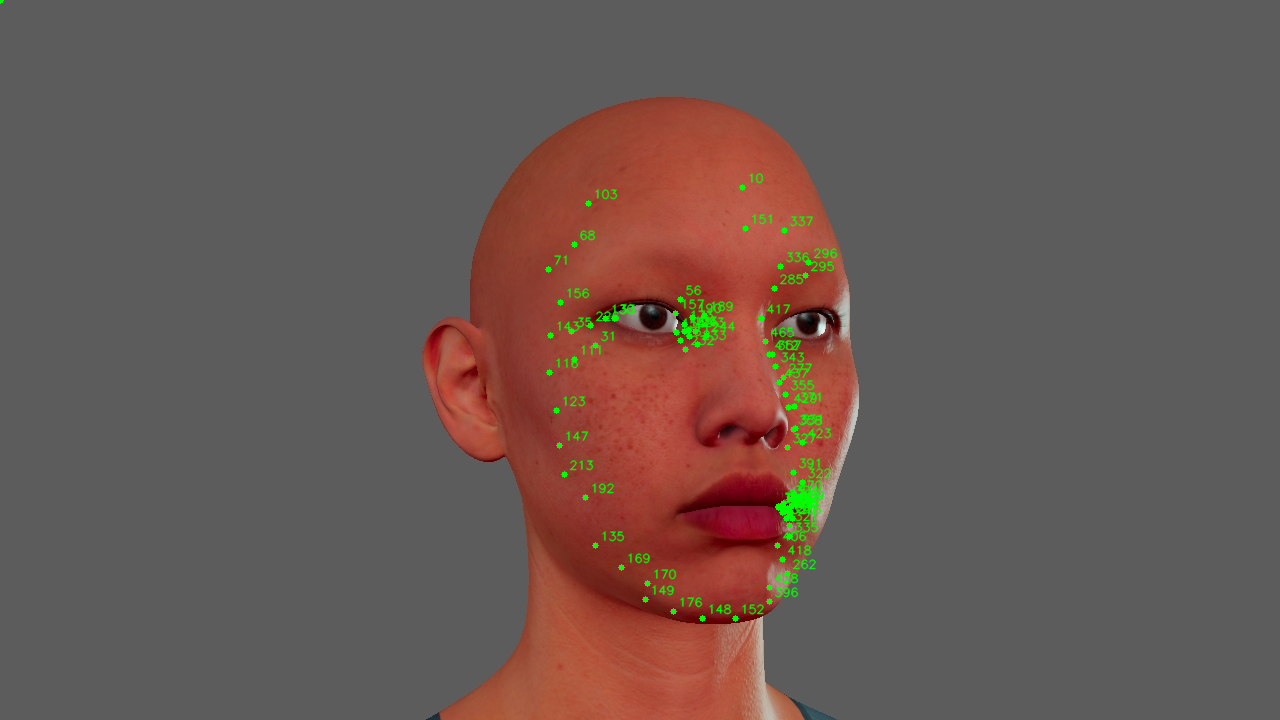
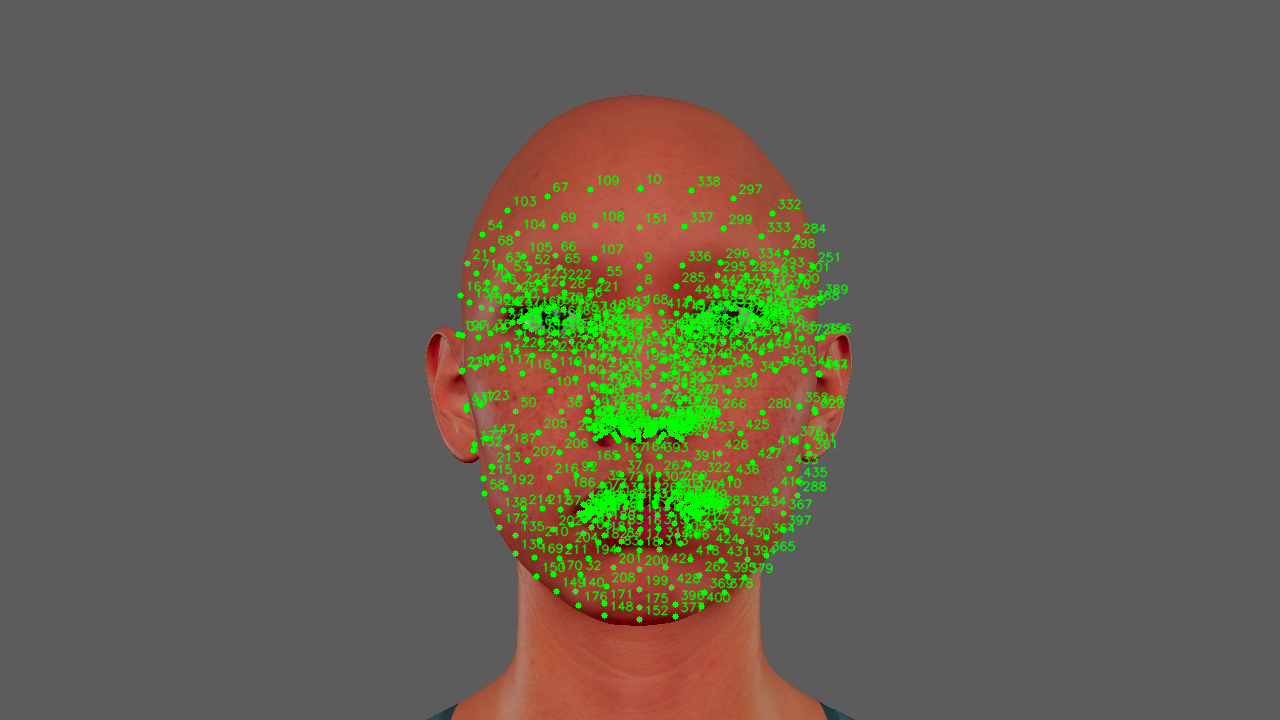
ray cast is working

Changed region(s): [[0.3125, 0.1222, 0.6875, 1.0], [0.5312, 0.1222, 0.5625, 0.1528]]

diff --git a/model/pixel_raycaster.py b/model/pixel_raycaster.py
@@ -1,0 +1,165 @@
+import maya.api.OpenMaya as om
+import maya.cmds as cmds
+from pathlib import Path
+import math
+
+
+class PixelRaycaster:
+    """
+    Converts a 2D pixel position into a camera ray, 
+    performs intersection against meshes, 
+    and returns the hit point in world space.
+    """
+
+    def __init__(self, pixel, camera_name="camera1", mesh_list=None, locator_name=None):
+        self.camera_name = camera_name
+        self.pixel = pixel
+        self.mesh_list = mesh_list
+        self.locator_name = locator_name or f"locator_ray_{pixel[0]}_{pixel[1]}"
+
+    def run(self):
+        # Perform raycast
+        hit_point = self.raycast_pixel(self.pixel, mesh_list=self.mesh_list)
+        if hit_point is None:
+            return None
+        locator_name = cmds.spaceLocator(name=self.locator_name, position=(hit_point.x, hit_point.y, hit_point.z))
+
+        return locator_name
+
+    # --------------------------------------------------
+    # Camera FOV
+    # --------------------------------------------------
+
+    @staticmethod
+    def _get_camera_fov(camera_shape, resolution=(1280, 720)):
+        """
+        플레이블라스트의 aspect ratio에 맞춘 수직 FOV 계산
+        """
+        res_x, res_y = resolution
+        aspect = float(res_x) / float(res_y)
+
+        h_fov = cmds.camera(camera_shape, q=True, hfv=True)
+
+        # tan(v/2) = tan(h/2) * (res_y / res_x)
+        half_h = math.tan(math.radians(h_fov * 0.5))
+        half_v = half_h * (res_y / float(res_x))
+        v_fov_effective = math.degrees(2.0 * math.atan(half_v))
+
+        return h_fov, v_fov_effective
+
+    # --------------------------------------------------
+    # Pixel → Angle
+    # --------------------------------------------------
+
+    def _pixel_to_camera_direction(self, pixel, camera, resolution=(1280, 720)):
+        """
+        픽셀 → 카메라 로컬 방향 벡터.
+        effective vFOV를 고려하여 resolution gate에 맞는 정확한 방향을 만든다.
+        """
+
+        # camera 가 transform이면 shape로 바꿔주는 게 안전
+        shapes = cmds.listRelatives(camera, shapes=True, fullPath=True) or [camera]
+        cam_shape = shapes[0]
+
+        # 해상도 기준으로 보정된 FOV 계산 (중요!)
+        h_fov, v_fov = self._get_camera_fov(cam_shape, resolution)
+
+        px, py = pixel
+        res_x, res_y = resolution
+
+        # 화면 중심
+        cx = res_x * 0.5
+        cy = res_y * 0.5
+
+        dx = px - cx
+        dy = py - cy
+
+        # 픽셀 위치를 -1~1의 비율로 정규화
+        ratio_x = dx / res_x
+        ratio_y = dy / res_y
+
+        # 각도로 변환
+        angle_x = math.radians(h_fov * ratio_x)
+        angle_y = math.radians(-v_fov * ratio_y)   # 주의: y는 flip
+
+        # 각도를 카메라 로컬 방향 벡터로 변환
+        x = math.tan(angle_x)
+        y = math.tan(angle_y)
+        z = -1.0  # 카메라는 -Z 방향을 바라봄
+
+        v = om.MVector(x, y, z)
+        v.normalize()
+        return v
+
+    @staticmethod
+    def _angle_to_local_direction(angle_x, angle_y):
+        """Convert camera-relative angular offsets to a local-direction vector."""
+        ax = math.radians(angle_x)
+        ay = math.radians(angle_y)
+
+        x = math.tan(ax)
+        y = math.tan(ay)
+        z = -1.0
+
+        v = om.MVector(x, y, z)
+        v.normalize()
+        return v
+
+    def _camera_ray_in_world(self, pixel):
+        """이제 angle_x, angle_y 안 쓰고 pixel 기반으로 직접 local dir을 구해도 됨."""
+        camera_sel = om.MSelectionList()
+        camera_sel.add(self.camera_name)
+        camera_dag = camera_sel.getDagPath(0)
+        camera_matrix = camera_dag.inclusiveMatrix()
+
+        tm = om.MTransformationMatrix(camera_matrix)
+        origin = tm.translation(om.MSpace.kWorld)
+
+        # angle_x, angle_y 대신 self.pixel 사용 (또는 인자로 pixel 넘기기)
+        local_dir = self._pixel_to_camera_direction(pixel, self.camera_name)
+        world_dir = local_dir * camera_matrix
+        world_dir.normalize()
+
+        return origin, world_dir
+
+    def raycast_pixel(self, pixel, mesh_list=None):
+        """Creates a world-space ray from pixel angulation and tests against meshes."""
+
+        origin, direction = self._camera_ray_in_world(pixel)
+
+        if mesh_list is None:
+            mesh_list = cmds.ls(type="mesh", long=True) or []
+
+        closest_hit = None
+        max_dist = 9999
+        closest_dist = max_dist
+
+        for mesh_shape in mesh_list:
+            try:
+                dag = om.MSelectionList().add(mesh_shape).getDagPath(0)
+            except RuntimeError:
+                continue
+
+            mesh_fn = om.MFnMesh(dag)
+
+            try:
+                hit = mesh_fn.closestIntersection(
+                    om.MFloatPoint(origin),
+                    om.MFloatVector(direction),
+                    om.MSpace.kWorld,
+                    max_dist,
+                    False  # closest only
+                )
+            except RuntimeError:
+                continue
+
+            if hit:
+                hit_pos, hitParam, faceId, triId, u, v = hit
+                hit_point = om.MPoint(hit_pos)
+                dist = om.MPoint(origin).distanceTo(hit_point)
+
+                if dist < closest_dist:
+                    closest_dist = dist
+                    closest_hit = hit_point
+
+        return closest_hit

diff --git a/test3.py b/test3.py
@@ -1,0 +1,65 @@
+import maya.cmds as cmds
+import maya.api.OpenMaya as om
+
+# -----------------------------------------------------------
+# Scene Setup (Uncomment and run these lines if objects don't exist)
+# -----------------------------------------------------------
+# cube = cmds.polyCube(width=1, height=1, depth=1, name="test_cube")[0]
+# camera = cmds.camera(name="test_camera1")[0]
+# cmds.xform("test_camera1", ws=True, t=(0, 0, 5)) 
+
+# -----------------------------------------------------------
+# Define object names
+# -----------------------------------------------------------
+camera_name = "ai_tracker_camera1"
+# Ensure you are using the Shape node name for MFnMesh
+mesh_name = "head_lod0_mesh" 
+
+# -----------------------------------------------------------
+# 1. Extract Camera Information (Origin and Direction)
+# -----------------------------------------------------------
+
+# Get the camera's DAG path
+cam_dag = om.MSelectionList().add(camera_name).getDagPath(0)
+# Get the camera's world space inclusive matrix
+cam_mtx = cam_dag.inclusiveMatrix()
+
+# Create a Transformation Matrix object
+cam_tm = om.MTransformationMatrix(cam_mtx)
+
+# Camera Position (Ray Start Point/Origin)
+cam_pos = cam_tm.translation(om.MSpace.kWorld) 
+
+# Camera Direction Vector (Ray Direction) - CRITICAL FIX
+# In Maya, cameras typically look down their local -Z axis.
+# The MMatrix stores the local X, Y, Z axes in its columns (indices 0-2, 4-6, 8-10).
+# The Z-axis vector is at indices [8], [9], [10].
+cam_z_vec = om.MVector(cam_mtx[8], cam_mtx[9], cam_mtx[10])
+
+# The Forward Vector is the negative of the Z-axis vector
+cam_vec = -cam_z_vec
+
+# -----------------------------------------------------------
+# 2. Extract Mesh Information
+# -----------------------------------------------------------
+
+# Get the mesh shape's DAG path
+mesh_dag = om.MSelectionList().add(mesh_name).getDagPath(0)
+# Initialize the MFnMesh function set
+fn_mesh = om.MFnMesh(mesh_dag)
+
+# -----------------------------------------------------------
+# 3. Perform Intersection Test
+# -----------------------------------------------------------
+
+# The function requires MFloatPoint and MFloatVector
+hit = fn_mesh.closestIntersection(
+    om.MFloatPoint(cam_pos),       # Ray Origin (Camera position)
+    om.MFloatVector(cam_vec),      # Ray Direction (Camera forward vector)
+    om.MSpace.kWorld,              # Perform the check in World Space
+    9999,                          # Ray length (max distance)
+    False                          # Find the closest single hit
+)
+
+# Print the result. It will contain the hit point, face index, etc., upon success.
+print(hit)

diff --git a/model/tracker.py b/model/tracker.py
@@ -5,13 +5,14 @@ from tracker_camera_creator import TrackerCameraCreator
 from viewport_manager import ViewportManager
 from TurntableGenerator.anim_playblast_generator import AnimPlayblastGenerator
 from pathlib import Path
-from temp_mesh_checker import MeshChecker
+from pixel_raycaster import PixelRaycaster
 
 class Tracker:
     def __init__(self):
         self._head = Head()
         self._camera = None
         self._group = "grp_tracker"
+        self._loc_group = "grp_landmark_locators"
 
         self._create_group()
 
@@ -30,11 +31,15 @@ class Tracker:
     def _create_group(self):
         self.delete_group()
         self._group = cmds.group(name=self._group, em=True)
+        self._loc_group = cmds.group(name=self._loc_group, em=True)
+
         cmds.select(clear=True)
 
     def delete_group(self):
         if cmds.objExists(self.group):
             cmds.delete(self.group)
+        if cmds.objExists(self._loc_group):
+            cmds.delete(self._loc_group)
    
     def create_head_bbox(self):
         self.head.create_bbox()
@@ -74,4 +79,17 @@ class Tracker:
         self.playblast_generator.run()
 
     def ai(self):
-        mesh_checker = MeshChecker(r"D:\code\AutoFaceRigAI\image\landmarks\landmarks.0001.json", self._camera.camera)
+        index = int(cmds.currentTime(query=True))
+        landmark_path = Path(__file__).resolve().parent.parent / "image" / "landmarks" / f"landmarks.{str(index).zfill(4)}.json"
+
+        data = load_json(str(landmark_path))
+        for index, point in enumerate(data[0]):
+            pixel = (point[0], point[1])
+            locator = PixelRaycaster(pixel, self._camera.camera, ["head_lod0_mesh"], f"{landmark_path.stem}_{index}").run()
+            if locator:
+                cmds.parent(locator, self._loc_group)
+
+def load_json(path):
+    import json
+    with open(path, "r") as f:
+        return json.load(f)

diff --git a/test2.py b/test2.py
@@ -127,7 +127,7 @@ if __name__ == "__main__":
     # Example usage:
     # python visualize_landmarks.py path/to/landmarks.json path/to/image.png
     
-    index = 70
+    index = 72
     json_path_arg = fr"D:\code\AutoFaceRigAI\image\landmarks\landmarks.{str(index).zfill(4)}.json"
     image_path_arg = rf"D:\code\AutoFaceRigAI\image\playblast\tracker.{str(index).zfill(4)}.jpg"
     frame_idx_arg = 0
